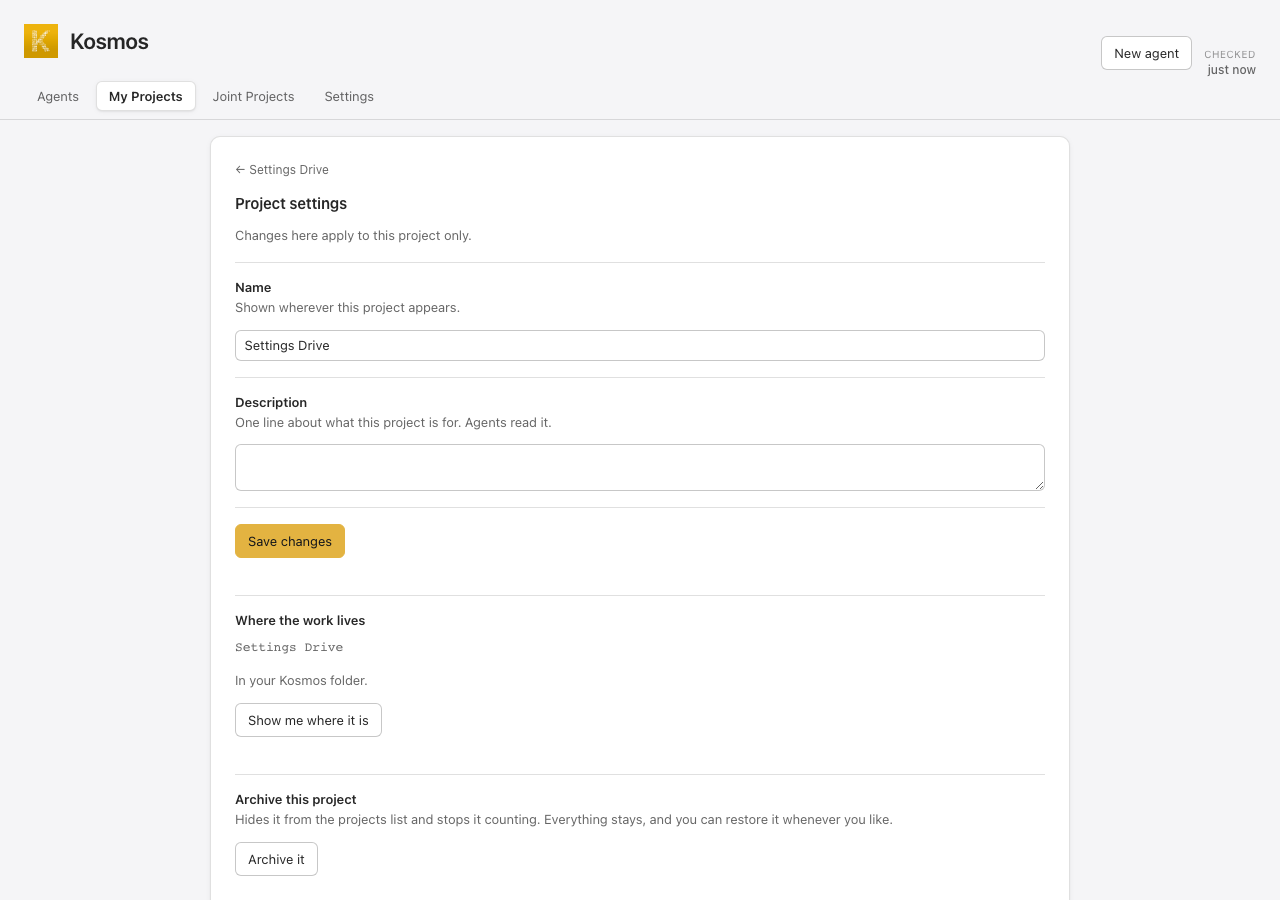
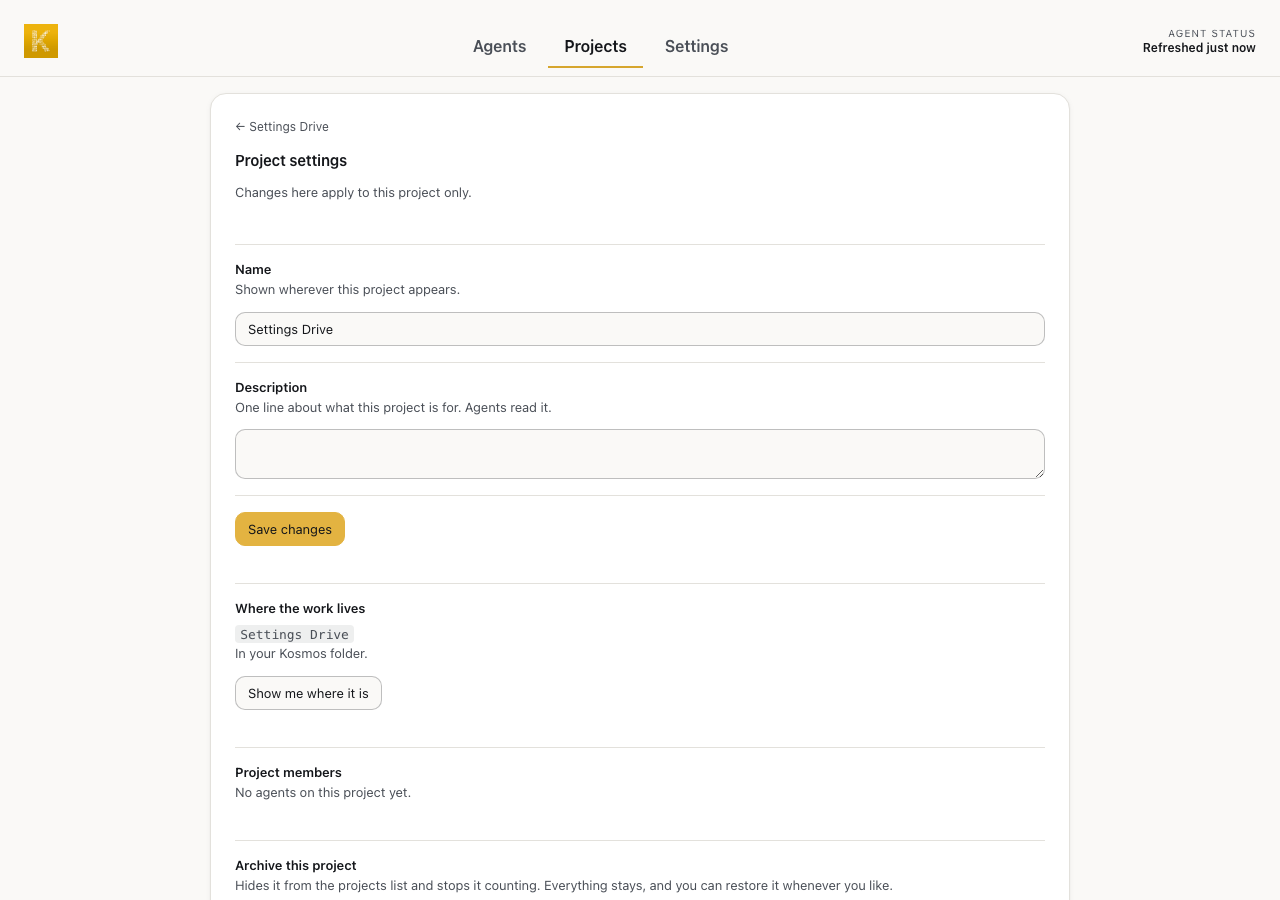
project-page -- the folder name was never styled, and the obvious fix did nothing
Project settings renders the folder NAME, the answer to the question that screen
exists to answer, as <p class="shint"><code class="t">. Neither class had a
rule anywhere in this file, so it arrived as a browser-default paragraph around
a browser-default code element. Found by Mona Lisa comparing structure against
the pack; nothing that reads this file for text could see it, because the markup
is entirely correct.

⚠ The first fix did not work and looked like it had. A bare .shint (0,1,0)
loses to .panel p (0,1,1) on font, colour, line-height AND margin-bottom. It was
invisible because in LIGHT the two rules produce identical numbers: --text-body
is 13px and .8125rem is 13px, --label-2 and --k-ink-2 are both #4a4f57. The
margin was the only tell, 12px where the rule asked for 0. Now scoped to
.panel p.shint and MEASURED in both schemes: dark reports #a9adb3 (--k-ink-2,
this rule) rather than rgba(255,255,255,.62) (--label-2, the panel rule), which
is the discriminator proving which rule wins rather than that the numbers look
right.

code.t does NOT take the pack's declaration. The pack's is built on --page-ink,
the mock-chrome token family: the surface a mock sits on inside the design
document, not an app surface. Same shape, this app's tokens.

Plan records .cstep as a name collision: a section container here, an inline-flex
chip in the pack. Recorded against the class, not a file.

diff --git a/web/index.html b/web/index.html
@@ -1597,6 +1597,44 @@ svg { display: block; }
    Mouse print got smaller in IMPORTANCE, not in legibility. Only two elements
    carry this class, both in this panel, so the blast radius is the panel. */
 .fpath { font: var(--text-caption) var(--font-ui); color: var(--label-2); }
+/* ⚠ TWO CLASSES THAT WERE WORN AND NEVER DEFINED. Project settings renders the
+   folder NAME — the answer to the question that screen exists to answer — as
+   `<p class="shint"><code class="t">`, and neither class had a rule anywhere in
+   this file. It was arriving as a browser-default paragraph around a
+   browser-default `code`: default face, default size, default colour, and a
+   default bottom margin the element's inline `margin-top` does not cancel.
+   Found by Mona Lisa comparing structure against the pack; nothing that reads
+   this file for text could see it, because the markup looks completely correct.
+
+   `.shint` takes the pack's values verbatim (FROZEN-2026-08-19:1880, verified
+   top-level rather than inside the narrow-screen block above it — the brace
+   depth was computed, because the rule is indented and reads as if it were
+   nested).
+
+   ⚠ `code.t` DOES NOT take the pack's, and this is the trap. The pack's
+   `code.t` (:100) is built on `--page-ink`, which is the MOCK-CHROME token
+   family: the surface a mock sits on inside the design document, not an app
+   surface. Mona Lisa established that distinction earlier tonight when the same
+   family made a `.panel` comparison look like a missing radius step. So this
+   keeps the pack's SHAPE — small mono, a faint ground, a little padding — on
+   this app's own tokens. Porting the declaration verbatim would import the
+   design document's furniture into the product. */
+/* ⚠ AND IT HAD TO BE `.panel p.shint`, WHICH I FOUND BY MEASURING AND WOULD
+   NOT HAVE FOUND BY READING. `.panel p` (0,1,1) sets font, colour, line-height
+   AND margin-bottom, and it BEATS a bare `.shint` (0,1,0) on every one of them.
+   A bare rule here contributes nothing inside a panel — the `.linkish` shape
+   again, one day later.
+   What hid it: in LIGHT, `--text-body` is 13px and `.8125rem` is 13px, and
+   `--label-2` and `--k-ink-2` are both #4a4f57. Identical numbers from two
+   different rules, so the computed style could not say which one won. In DARK
+   they diverge (rgba(255,255,255,.62) against #a9adb3), which is the third time
+   tonight that a defect was invisible in light and only the second instrument
+   could see it. The margin was the tell: 12px where the rule asked for 0. */
+.panel p.shint { margin: 6px 0 0; font-size: .8125rem; line-height: 1.45;
+                 color: var(--k-ink-2); }
+.shint { margin: 6px 0 0; font-size: .8125rem; line-height: 1.45; color: var(--k-ink-2); }
+code.t { font: 13px var(--k-mono); border-radius: 4px; padding: .12em .4em;
+         background: color-mix(in srgb, var(--k-ink) 7%, transparent); }
 
 /* Running on older instructions. A STATE, not a toast: it survives a reload,
    and it is still right when the file was edited outside this app entirely. */

diff --git a/.claude/plans/project-page-20260819.md b/.claude/plans/project-page-20260819.md
@@ -144,3 +144,20 @@ reading it wrong.
 Every other check in that run is green, including the members-wording step that
 this branch broke and repaired, so the red is exactly four measurements wide and
 its boundary is known.
+
+## 🛑 `.cstep` is a NAME COLLISION — do not port the pack's rules for it
+
+Recorded against the CLASS rather than a file, because a warning that names a
+file protects that file and not the defect.
+
+- **Build** (web/index.html:2723, 2791): `<div class="cstep" id="cstep-role">`
+  wrapping an `<h2>`. A section CONTAINER in the create panel. It has no rule
+  and renders as a plain div, which is what it wants. Nothing is wrong today.
+- **Pack**: `.cstep` is an inline-flex CHIP, with `.cstep b` as a 22px circle,
+  plus `:hover` and a `.csteps.cprev` dashed variant. Seven rules.
+
+Same word, two different objects. Porting the pack's `.cstep` turns the create
+panel's section wrappers into inline-flex chips with circles in them. Found by
+Mona Lisa. This is the second instance tonight of a class name meaning
+different things in the two files; the first was `.panel`, where the pack's
+wears `--page-*` mock-chrome tokens and the build's is a real surface.
